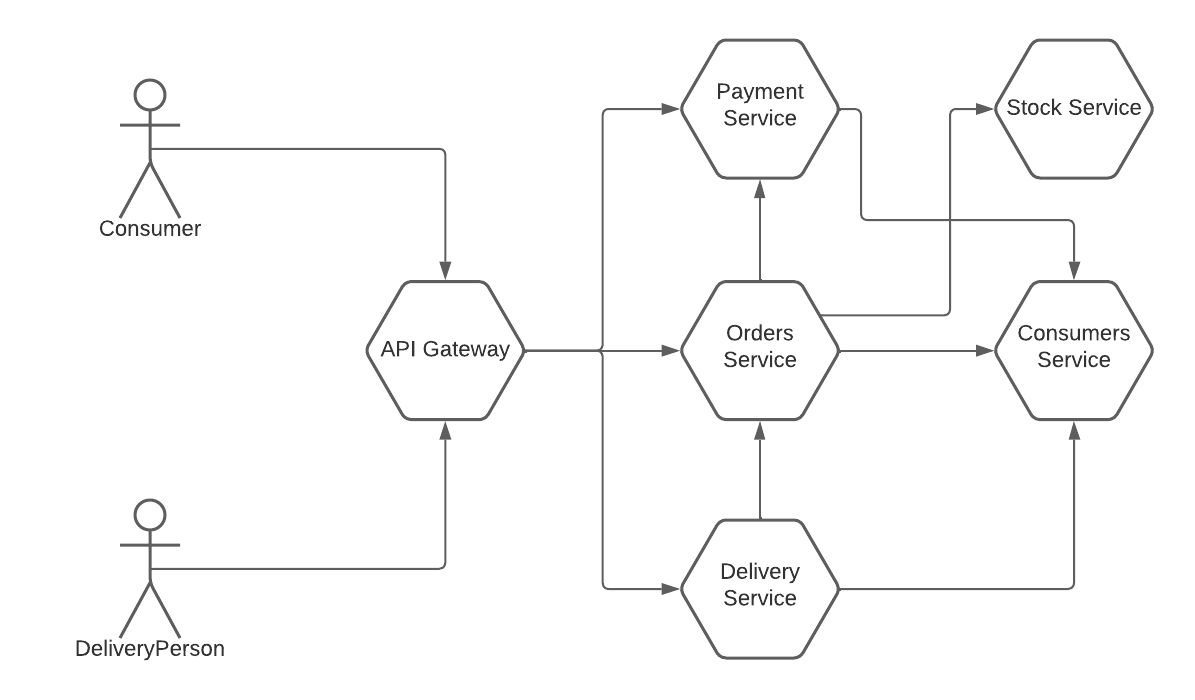
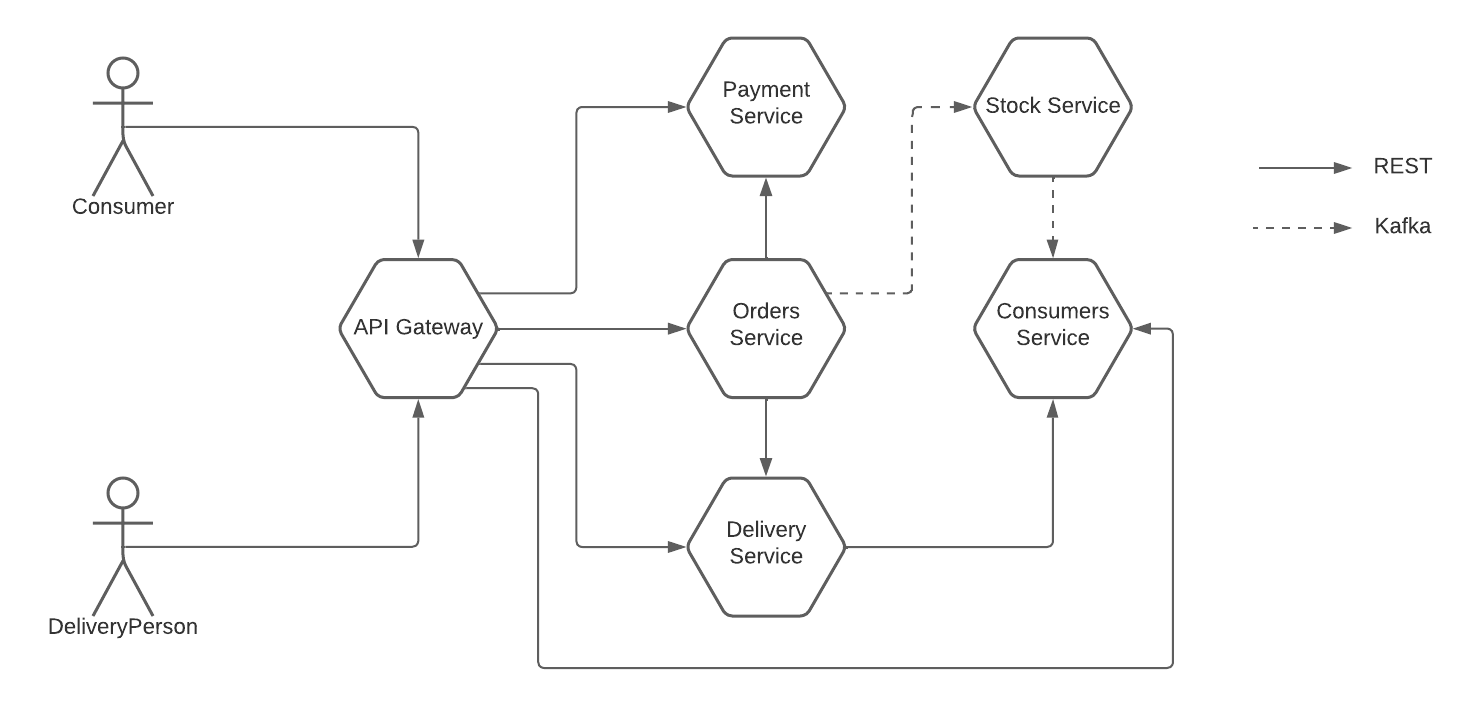
Add resilience, observability and remaining services

diff --git a/docs/report.md b/docs/report.md
@@ -4,9 +4,11 @@
 <!-- SET: @bloatLover = @sirze -->
 <!-- SET: @spaghettiLover = @fernandorego -->
 
-## Architectural system design <!-- ARCHITECTURE COPIED FROM PRELIMINARY REPORT  -->
+## Architectural system design
 
-<!-- @architectMaster - NEED REVIEW AND POSSIBLE UPDATES -->
+Our subsystem is designed in a microservices architecture. Given the considerable size of the development team (the whole class) and the requisite to support a very large number of users, this allows us to achieve scalability, fault isolation and ease of development.
+
+As expected, each microservice has its own database. We are following a "domain-driven design" approach, which means that each microservice is responsible for a specific domain of the system. This allows us to achieve a high degree of cohesion and low coupling between the services. Communications between services are kept to a minimum, and are mainly done asynchronously.
 
 ### Domain model
 
@@ -14,7 +16,7 @@ Our subsystem is responsible for orders and everything related to them. This inc
 
 ![Domain model](./assets/domain.png)
 
-While we are not responsible for *Supplier*, *Product* and *Category*, these are a direct requirement for the functioning of the subsystem and are therefore included here. This means that while other subsystems may model them differently, there should be an interface between the subsystems that consistently serializes them.
+While we are not responsible for *Supplier*, *Product* and *Category*, these are a direct requirement for the functioning of the subsystem and are therefore included here. This means that while other subsystems may model them differently, we agreed on a common data transfer model (either through Kafka or through REST) to facilitate the integration between subsystems.
 
 ### Services architecture
 
@@ -22,7 +24,15 @@ We are interested in the interactions between the services that we are responsib
 
 ![Services architecture](./assets/arch.png)
 
-The (direct) connections may be intercepted, in the final system, by a gateway that will be responsible for routing the requests to the correct service and/or taking care of authentication, authorization and observability. This will be skipped in the early development stages and will be added later when the group responsible for the gateway delivers a working prototype that we can use.
+Our services communicate as follows:
+
+- The *Orders*, *Payments* and *Delivery* are "entry-point" services that expose a REST API to the outside world, used for creating and editing orders, paying for them and delivering them, respectively.
+- The "entry-point" services communicate with the *Stock* service through Kafka, to update the stock of products.
+- The *Stock* service communicates with the *Consumers* service through Kafka, to update the stock of products. The *Consumers* service caches the products to avoid unnecessary requests to the *Stock* service upon a request to a recommendation REST endpoint that it exposes.
+
+Although not implemented, all communication instances may be logged to a database for auditing purposes, preferably asynchronously (through Kafka) to avoid performance issues.
+
+Authentication and authorization should be handled by the API gateway. In our internal infrastructure, we assume all requests to be allowed.
 
 ## Services description and their operations
 
@@ -30,13 +40,29 @@ All services have been developed using Go, and each service is equipped with its
 
 ### Consumers
 
-<!-- @architectMaster + @spaghettiLover(kafka) -->
-<!-- @architectMaster change according to your recommendation part -->
-Finally, to effortlessly update the product view, the Consumers service expects either new products or partial updates, to be announced via Kafka. This is useful to enhance the recommendation system.
+The *Consumers* microservice is responsible for managing the consumers of the system. Consequently, it also manages their shopping cart, registered product price drop alerts, and leverages a lightweight product reccomendation system.
+
+To allow for all product-related features, we keep a local view of the products in the system. This is updated asynchronously through Kafka, whenever a product is created or updated. This allows us to avoid unnecessary requests to the *Stock* service, which is responsible for managing the products and maintaining the actual products database.
+
+The shopping cart is a list of products the user is interested in. It may be used by a frontend application to quickly bootstrap an order (as a result of a "checkout" operation), or simply be viewed as a wishlist. It is also useful to the recommendations infrastructure, as explained below.
+
+The reccomendations module suggests a list of products to a consumer based on its shopping cart, past orders and registered price drop alerts. The products in the local database are ordered by similarity against them. The similiraty is given by factors such as category, brand and Levenshtein distance between the descriptions.
 
 #### Key operations
 
-- Listen messages published in the broker of product updates
+- Receive product updates (creation and price updates)
+- Recommend products to a consumer
+- Recommend same-category products to a consumer
+- List all consumers
+- Get details of a specific consumer
+- Delete a consumer
+- Create a new consumer
+- Update an existing consumer
+- Register consumer for a price notification
+- Get all price notifications for a consumer
+- Get the consumer's shopping cart
+- Add a product to the consumer's shopping cart
+- Remove a product from the consumer's shopping cart
 
 ### Orders
 
@@ -71,9 +97,13 @@ To facilitate the management of each order, there are 5 different states to cont
 
 ### Delivery
 
-<!-- @architectMaster -->
+Our *Delivery* service is by design a very simple service. Since the *Haas Web Market* system does not focus on real-time delivery (i.e. is not a delivery company such as Uber Eats), we leverage only infrastructure for delivering an order at a location, and we provide an estimated delivery time, without real-time tracking.
 
 #### Key operations
+
+- Get delivery status for an order
+- Request delivery for an order
+- Mark an order as delivered
 
 ### Payments
 
@@ -84,14 +114,30 @@ The Payments service plays a crucial role in validating each order's payment. To
 - Validation of order payments
 
 ## Resilience Patterns
-- specification and implementation (minimum of 2)
 
-<!-- @bloatLover or @architectMaster -->
+The microservices architecture is a distributed system, which means that it is prone to failures. In spite of this, it is straightforward to deploy them to a resilient infrastructure such as Kubernetes, which allows us to achieve high availability and fault tolerance, by automatically handling failures and scaling the system as needed.
+
+Besides this, we implemented a few resilience patterns to further improve the robustness of our system.
+
+### Statelessness
+
+Our *Payments* microservice does not store any local data (in a real-world scenario, it would simply communicate with a payments provider). This "pure" nature allows us to easily scale the service horizontally, and to easily recover from failures, by simply restarting the service.
+
+### Data partitioning
+
+Our *Consumers* microservice holds a local view of the products in the system. This allows us to avoid unnecessary requests to the *Stock* service, but also to serve as a backup in case the *Stock* service is unavailable. This is a form of data partitioning, which allows us to achieve fault tolerance.
 
 ## Observability patterns
-- specification and implementation (minimum of 2)
 
-<!-- @bloatLover or @architectMaster -->
+In a microservices system, it is important to have a way to monitor the health of the system, and to be able to debug it in case of failures. In our system, the *API Gateway subsystem* is the main responsible for the latter. In the following subsections, we briefly describe the observability patterns that we implemented.
+
+### Health check
+
+All microservices provide a health check endpoint, which may be used by the *API Gateway subsystem* or any other external master node (e.g. the Kubernetes control panel) to determine if the service is healthy. This is done by simply checking if the service is running. If it is not, the service may be restarted or replaced.
+
+### Tracing
+
+As explained above, we did not implement any communication announcement to any Kafka topic, which would be useful for distributed tracing. However, we did implement a simple local logging system in the form of tracing middleware. A control panel may be implemented to allow for easy access to the logs, for example, via SSH and an inspection of the logs tail. A simple concatenation of the logs of all services may be used to achieve a global view of the system.
 
 ## Security implementation
 
